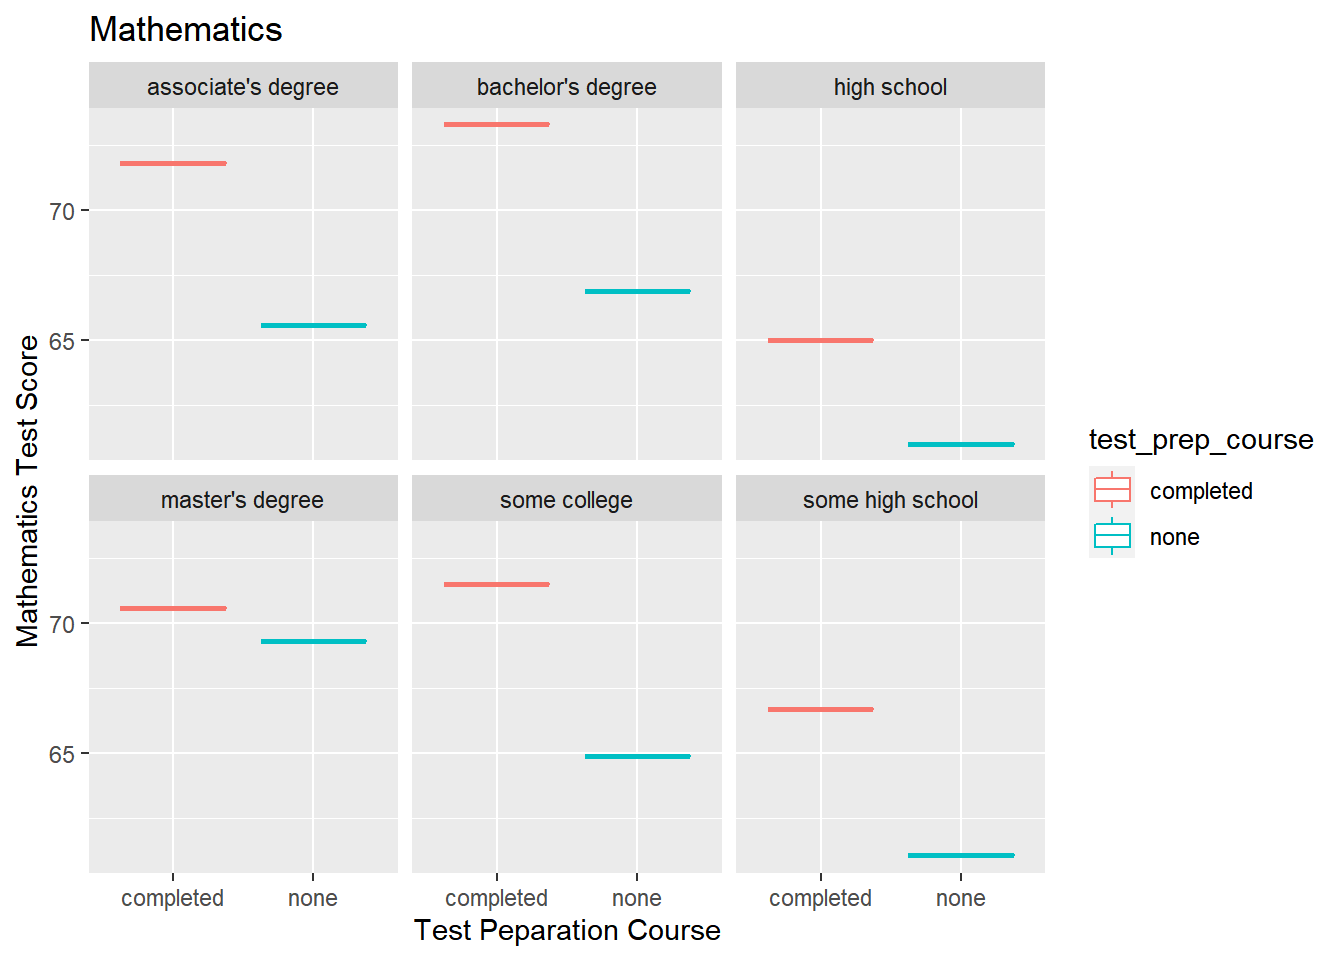
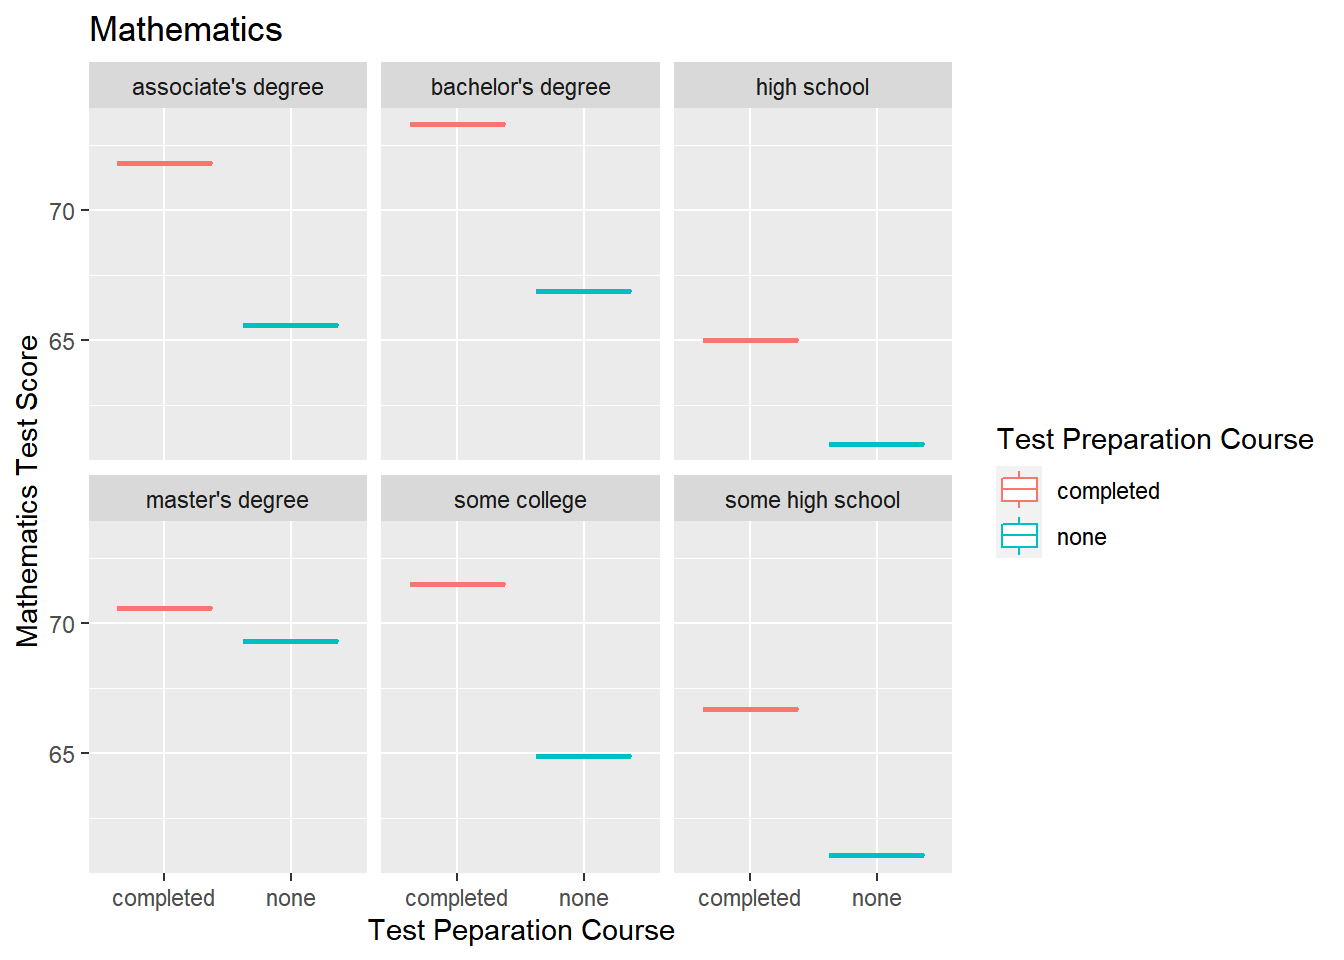
dd

diff --git a/content/blog/2022-04-20-exam-scores/index.html b/content/blog/2022-04-20-exam-scores/index.html
@@ -52,34 +52,11 @@ tags:
 <li>“reading” - exam score in reading</li>
 <li>“writing” - exam score in writing</li>
 </ul>
-<pre class="r"><code>library(tidyverse)</code></pre>
-<pre><code>## Warning: package &#39;tidyverse&#39; was built under R version 4.1.2</code></pre>
-<pre><code>## -- Attaching packages --------------------------------------- tidyverse 1.3.1 --</code></pre>
-<pre><code>## v ggplot2 3.3.5     v purrr   0.3.4
-## v tibble  3.1.5     v dplyr   1.0.7
-## v tidyr   1.1.4     v stringr 1.4.0
-## v readr   2.0.2     v forcats 0.5.1</code></pre>
-<pre><code>## Warning: package &#39;ggplot2&#39; was built under R version 4.1.1</code></pre>
-<pre><code>## Warning: package &#39;tibble&#39; was built under R version 4.1.1</code></pre>
-<pre><code>## Warning: package &#39;tidyr&#39; was built under R version 4.1.1</code></pre>
-<pre><code>## Warning: package &#39;readr&#39; was built under R version 4.1.1</code></pre>
-<pre><code>## Warning: package &#39;purrr&#39; was built under R version 4.1.1</code></pre>
-<pre><code>## Warning: package &#39;dplyr&#39; was built under R version 4.1.1</code></pre>
-<pre><code>## Warning: package &#39;stringr&#39; was built under R version 4.1.1</code></pre>
-<pre><code>## Warning: package &#39;forcats&#39; was built under R version 4.1.1</code></pre>
-<pre><code>## -- Conflicts ------------------------------------------ tidyverse_conflicts() --
-## x dplyr::filter() masks stats::filter()
-## x dplyr::lag()    masks stats::lag()</code></pre>
-<pre class="r"><code>data &lt;- read_csv(&quot;C:/Users/Adejumo/Downloads/exams.csv&quot;)</code></pre>
-<pre><code>## Rows: 1000 Columns: 8</code></pre>
-<pre><code>## -- Column specification --------------------------------------------------------
-## Delimiter: &quot;,&quot;
-## chr (5): gender, race/ethnicity, parent_education_level, lunch, test_prep_co...
-## dbl (3): math, reading, writing</code></pre>
-<pre><code>## 
-## i Use `spec()` to retrieve the full column specification for this data.
-## i Specify the column types or set `show_col_types = FALSE` to quiet this message.</code></pre>
-<pre class="r"><code>head(data)</code></pre>
+<pre class="r"><code>library(tidyverse)
+
+data &lt;- read_csv(&quot;C:/Users/Adejumo/Downloads/exams.csv&quot;)
+
+head(data)</code></pre>
 <pre><code>## # A tibble: 6 x 8
 ##   gender `race/ethnicity` parent_education~ lunch test_prep_course  math reading
 ##   &lt;chr&gt;  &lt;chr&gt;            &lt;chr&gt;             &lt;chr&gt; &lt;chr&gt;            &lt;dbl&gt;   &lt;dbl&gt;
@@ -330,14 +307,15 @@ Children of parents who have achieved a higher level of education recorded a hig
   group_by(test_prep_course, parent_education_level) %&gt;% 
   summarize(Mathematics = round(mean(math),1),
             Reading = round(mean(reading),1),
-            Writing = round(mean(writing),1)) %&gt;% 
+            Writing = round(mean(writing),1),
+            .groups = ) %&gt;% 
   ggplot(aes(test_prep_course, Mathematics, colour = test_prep_course)) +
   geom_boxplot() +
   facet_wrap(vars(parent_education_level)) +
   xlab(&quot;Test Peparation Course&quot;) +
   ylab(&quot;Mathematics Test Score&quot;) +
-  ggtitle(&quot;Mathematics&quot;)</code></pre>
-<pre><code>## `summarise()` has grouped output by &#39;test_prep_course&#39;. You can override using the `.groups` argument.</code></pre>
+  ggtitle(&quot;Mathematics&quot;) +
+  labs(colour = &quot;Test Preparation Course&quot;)</code></pre>
 <p><img src="{{< blogdown/postref >}}index_files/figure-html/unnamed-chunk-6-1.png" width="672" />
 #### Reading</p>
 <pre class="r"><code>data %&gt;% 
@@ -350,8 +328,8 @@ Children of parents who have achieved a higher level of education recorded a hig
   facet_wrap(vars(parent_education_level)) +
   xlab(&quot;Test Peparation Course&quot;) +
   ylab(&quot;Reading Test Score&quot;) +
-  ggtitle(&quot;Reading&quot;)</code></pre>
-<pre><code>## `summarise()` has grouped output by &#39;test_prep_course&#39;. You can override using the `.groups` argument.</code></pre>
+  ggtitle(&quot;Reading&quot;) +
+  labs(colour = &quot;Test Preparation Course&quot;)</code></pre>
 <p><img src="{{< blogdown/postref >}}index_files/figure-html/unnamed-chunk-7-1.png" width="672" />
 #### Writing</p>
 <pre class="r"><code>data %&gt;% 
@@ -364,8 +342,8 @@ Children of parents who have achieved a higher level of education recorded a hig
   facet_wrap(vars(parent_education_level)) +
   xlab(&quot;Test Peparation Course&quot;) +
   ylab(&quot;Writing Test Score&quot;) +
-  ggtitle(&quot;Writing&quot;)</code></pre>
-<pre><code>## `summarise()` has grouped output by &#39;test_prep_course&#39;. You can override using the `.groups` argument.</code></pre>
+  ggtitle(&quot;Writing&quot;) +
+  labs(colour = &quot;Test Preparation Course&quot;)</code></pre>
 <p><img src="{{< blogdown/postref >}}index_files/figure-html/unnamed-chunk-8-1.png" width="672" />
 Students of Parents who have attained high education level performed better than those with lower education level regardless whether they took the test preparation test or not.</p>
 </div>
@@ -382,4 +360,5 @@ There is a highly positive correlation between the test scores especially in rea
 </div>
 <div id="summary" class="section level2">
 <h2>Summary</h2>
+<p>From the above analysis, we can conclude that the test preparation course have a significant effect on student performance and also children of parents with higher educational qualifications regardless of taking the test preparation course or not displayed higher scores than those whose parents have lower educational qualifications.</p>
 </div>
